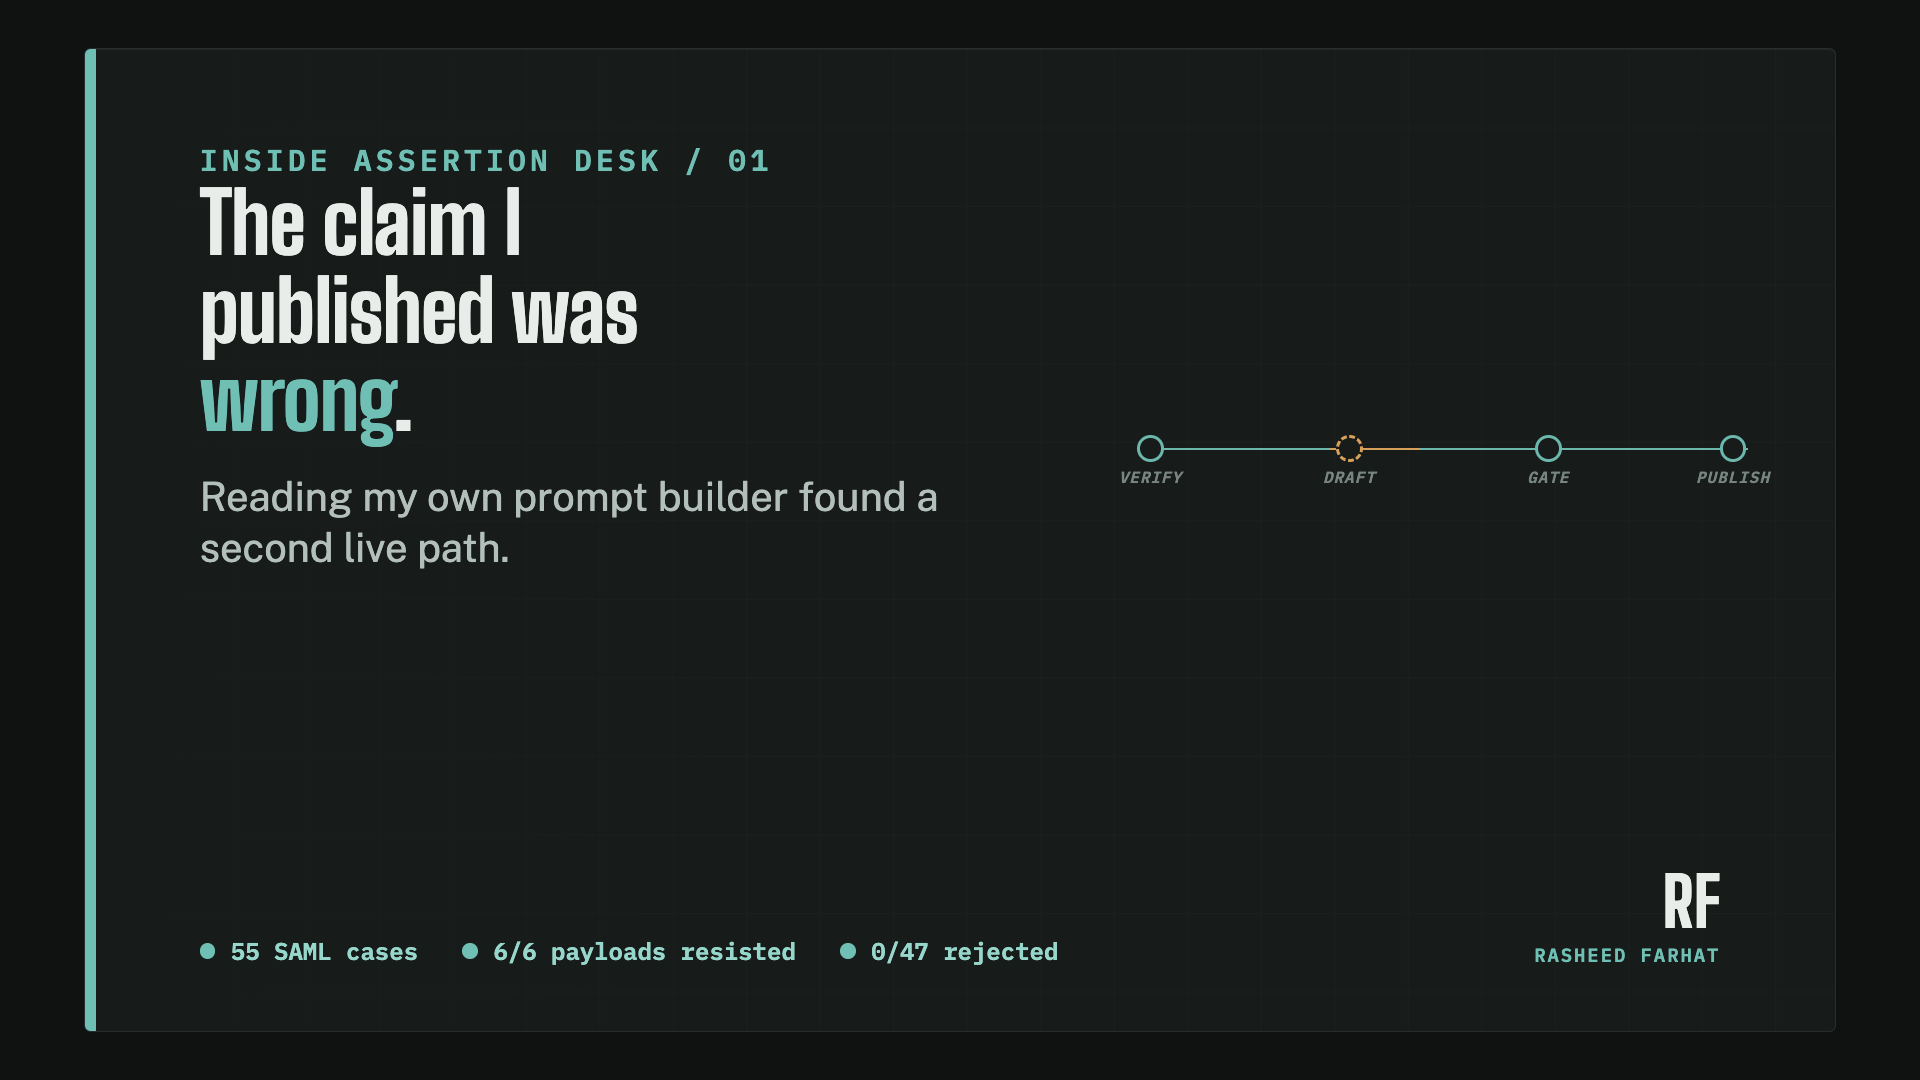
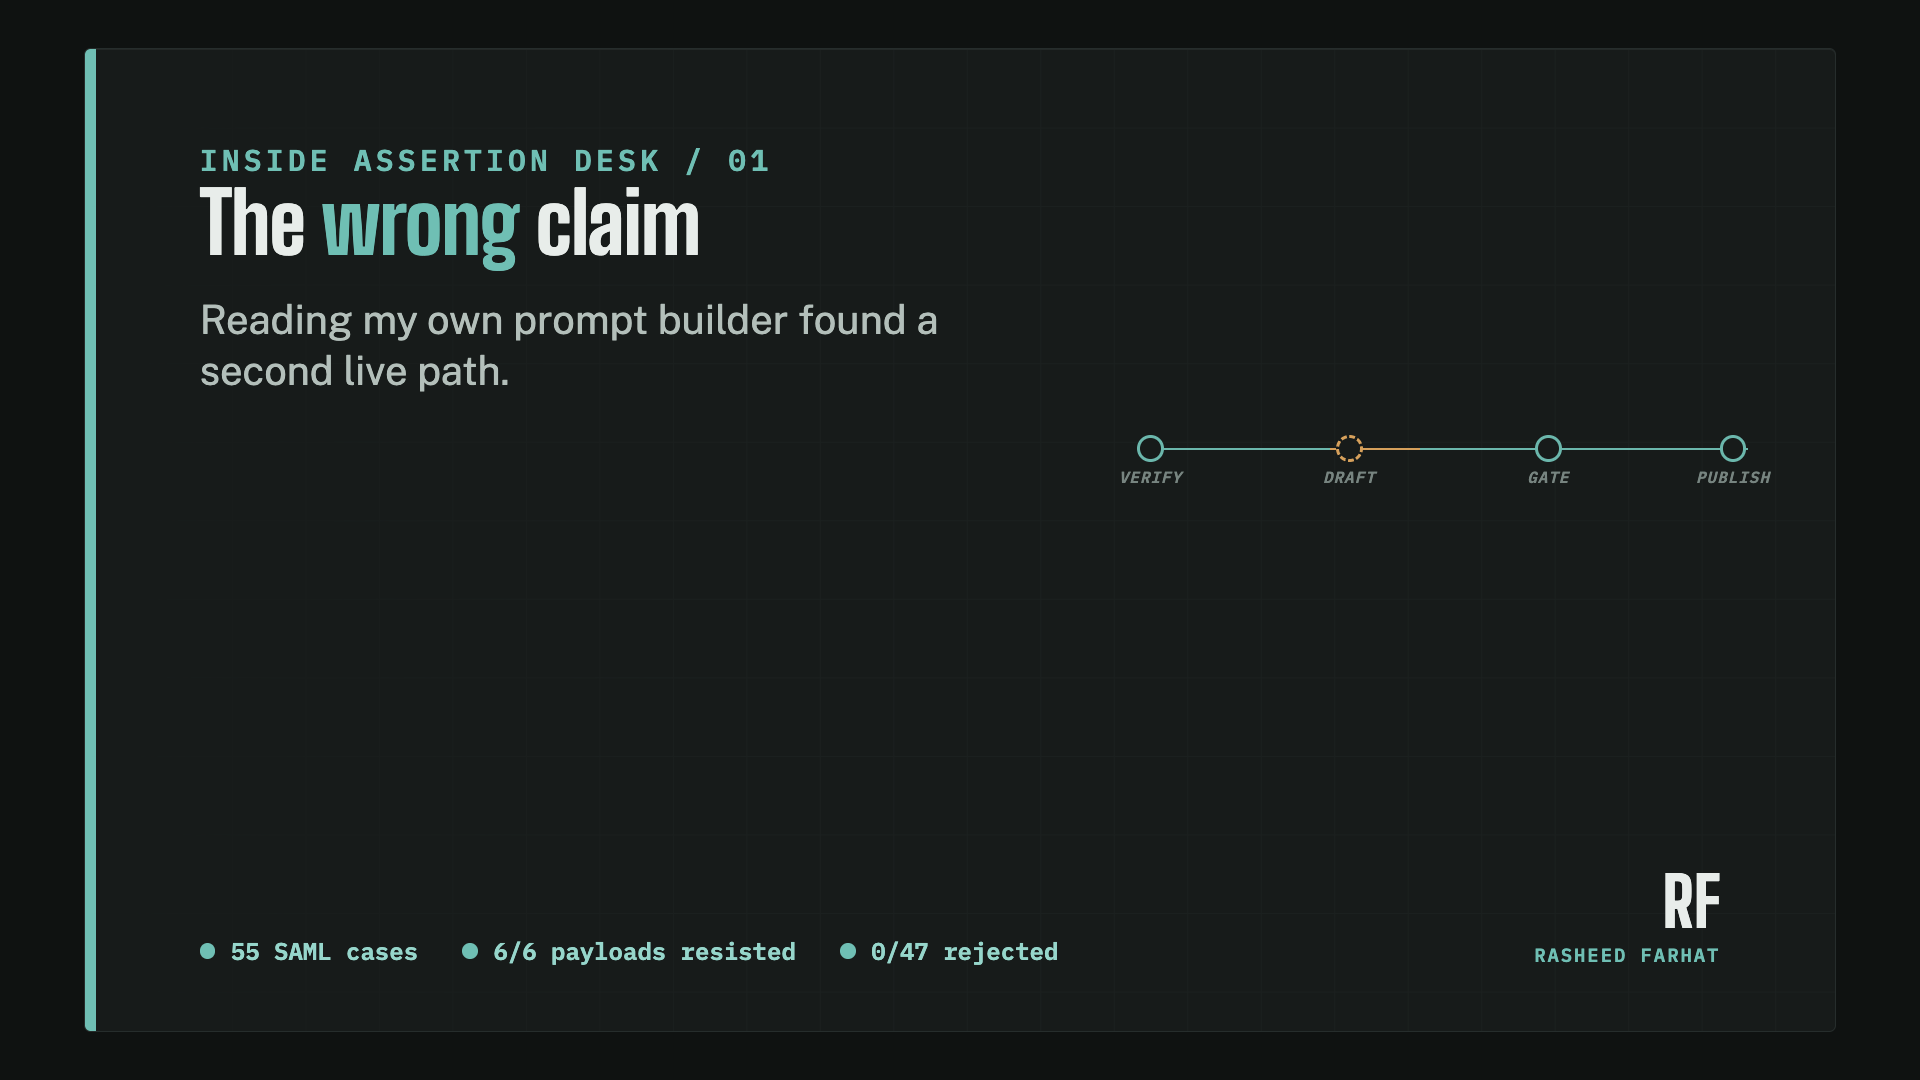
Shorten article one headline further to "The Wrong Claim"
Per feedback, "The Claim I Published Was Wrong." was still too long.
Replaced everywhere it appears: h1 (with the signal span moved to
"wrong"), title/og:title/twitter:title, JSON-LD headline, the
writing index card, and the generated social-card image.

Changed region(s): [[0.0938, 0.1528, 0.5, 0.4278], [0.0938, 0.4278, 0.5, 0.5194]]

diff --git a/writing/the-claim-i-published-was-wrong/index.html b/writing/the-claim-i-published-was-wrong/index.html
@@ -6,7 +6,7 @@
     <meta name="description" content="My own limitations file said injection resistance rested on one live path into a model prompt. Reading the code that builds that prompt found a second one, and I had to correct my own claim." />
     <meta name="theme-color" content="#edebe5" />
     <meta name="color-scheme" content="light dark" />
-    <meta property="og:title" content="The Claim I Published Was Wrong" />
+    <meta property="og:title" content="The Wrong Claim" />
     <meta property="og:description" content="My own limitations file said injection resistance rested on one live path into a model prompt. Reading the code that builds that prompt found a second one, and I had to correct my own claim." />
     <meta property="og:type" content="article" />
     <meta property="og:url" content="https://rasheedfarhat.github.io/writing/the-claim-i-published-was-wrong/" />
@@ -17,7 +17,7 @@
     <meta property="article:author" content="Rasheed Farhat" />
     <meta property="article:published_time" content="2026-08-23T09:00:00+03:00" />
     <meta name="twitter:card" content="summary_large_image" />
-    <meta name="twitter:title" content="The Claim I Published Was Wrong" />
+    <meta name="twitter:title" content="The Wrong Claim" />
     <meta name="twitter:description" content="My own limitations file said injection resistance rested on one live path into a model prompt. Reading the code that builds that prompt found a second one, and I had to correct my own claim." />
     <meta name="twitter:image" content="https://rasheedfarhat.github.io/assets/writing/claim-was-wrong-preview.png" />
     <link rel="canonical" href="https://rasheedfarhat.github.io/writing/the-claim-i-published-was-wrong/" />
@@ -33,7 +33,7 @@
       {
         "@context": "https://schema.org",
         "@type": "TechArticle",
-        "headline": "The Claim I Published Was Wrong.",
+        "headline": "The Wrong Claim",
         "description": "My own limitations file said injection resistance rested on one live path into a model prompt. Reading the code that builds that prompt found a second one, and I had to correct my own claim.",
         "datePublished": "2026-08-23T09:00:00+03:00",
         "dateModified": "2026-08-23T09:00:00+03:00",
@@ -42,7 +42,7 @@
         "isPartOf": {"@type": "CreativeWorkSeries", "name": "Inside Assertion Desk"}
       }
     </script>
-    <title>The Claim I Published Was Wrong | Rasheed Farhat</title>
+    <title>The Wrong Claim | Rasheed Farhat</title>
   </head>
   <body>
     <a class="skip-link" href="#main">Skip to main content</a>
@@ -68,7 +68,7 @@
         <header class="article-hero shell">
           <nav class="breadcrumb" aria-label="Breadcrumb"><a href="/writing/">Writing</a><span aria-hidden="true">/</span><span>Inside Assertion Desk, part 1</span></nav>
           <p class="series-kicker">Inside Assertion Desk <span>Part 1 of 2</span></p>
-          <h1>The Claim I Published Was <span class="article-title__signal">Wrong</span>.</h1>
+          <h1>The <span class="article-title__signal">Wrong</span> Claim</h1>
           <p class="article-hero__dek">My own limitations file said injection resistance rested on one live path into a model prompt. Reading the code that builds that prompt found a second one it was never scanning.</p>
           <dl class="article-meta">
             <div><dt>Written by</dt><dd>Rasheed Farhat</dd></div>

diff --git a/writing/index.html b/writing/index.html
@@ -115,7 +115,7 @@
               <span class="venue">Inside Assertion Desk 1/2</span>
             </div>
             <div>
-              <h3><a href="/writing/the-claim-i-published-was-wrong/">The Claim I Published Was Wrong.</a></h3>
+              <h3><a href="/writing/the-claim-i-published-was-wrong/">The Wrong Claim</a></h3>
               <p>
                 My own limitations file said injection resistance rested on
                 one live path into a model prompt. Reading the code that

diff --git a/scripts/writing-card-source.html b/scripts/writing-card-source.html
@@ -104,9 +104,9 @@
     },
     "4": {
       kicker: "Inside Assertion Desk / 01",
-      titleBefore: "The claim I published was ",
+      titleBefore: "The ",
       titleSignal: "wrong",
-      titleAfter: ".",
+      titleAfter: " claim",
       support: "Reading my own prompt builder found a second live path.",
       proof: ["55 SAML cases", "6/6 payloads resisted", "0/47 rejected"]
     },
